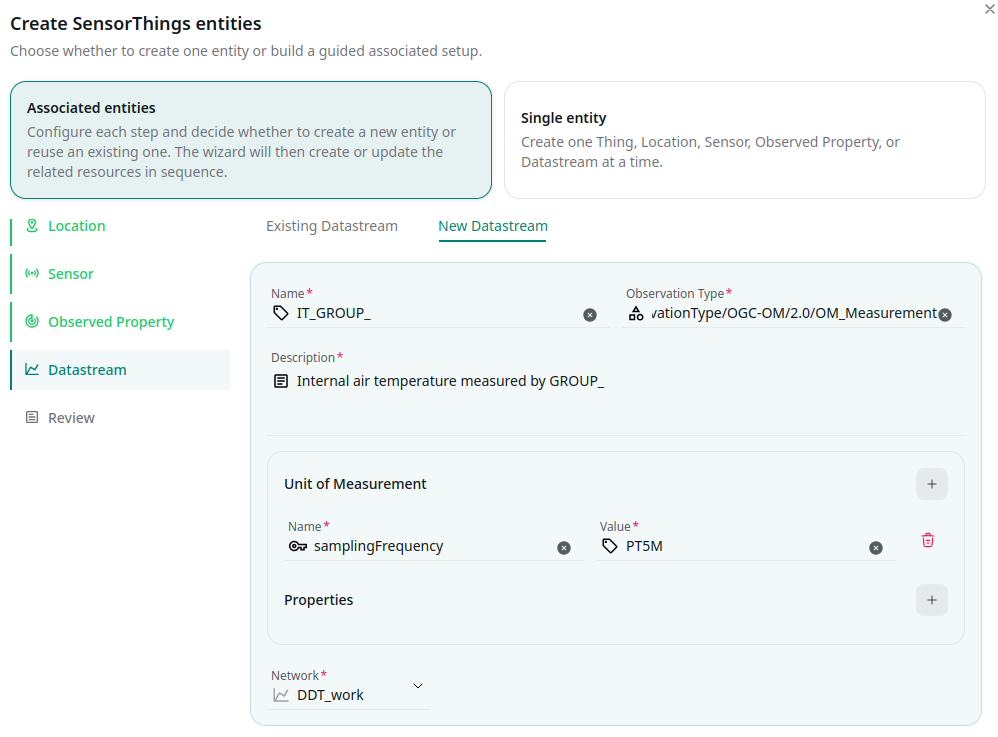
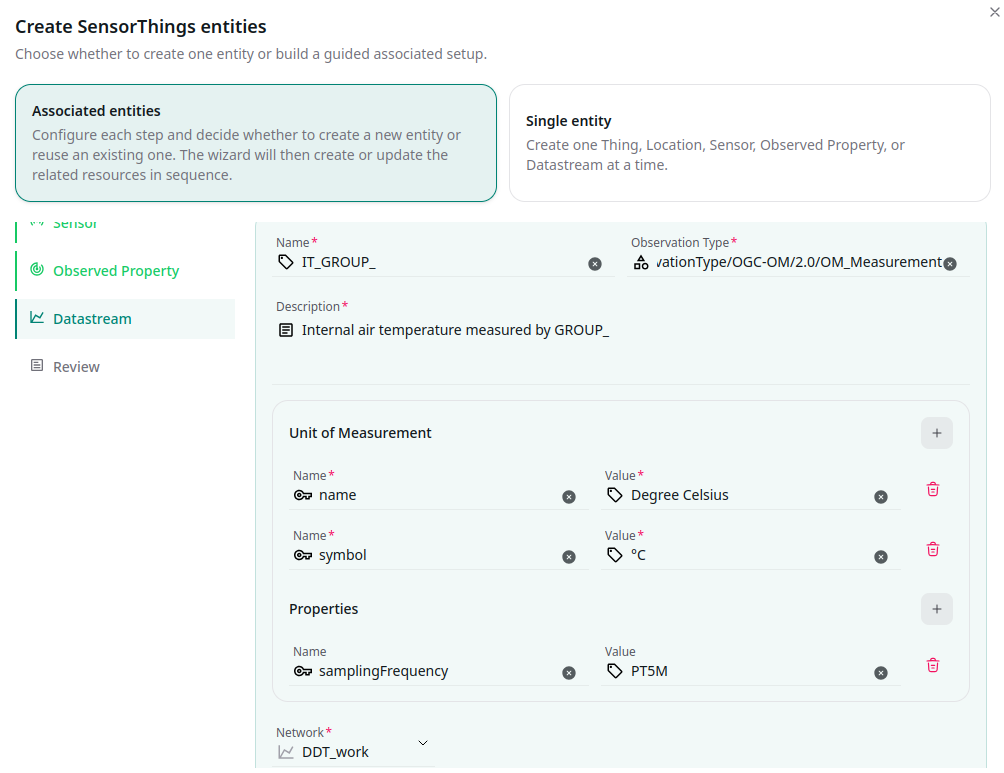
Update UI tutorial to enhance clarity on creating SensorThings entities and improve image assets

diff --git a/web/docs/basic/ui.md b/web/docs/basic/ui.md
@@ -1,119 +1,125 @@
 ---
 title: Exploring the User Interface
-description: Learn how to navigate the istSOS4 user interface and access the main features through the web application.
+description: Learn how to navigate the istSOS4 user interface and create the SensorThings entities required for a sensor configuration.
 icon: lucide/app-window
 ---
 
 # Exploring the User Interface
 
-In this tutorial, we will learn how to use the istSOS4 user interface to create the entities required for our sensor.
+This tutorial explains how to use the istSOS4 user interface to create and connect the entities required for a sensor configuration.
 
-The user interface allows us to interact with the platform visually, without sending API requests manually. We will use it to create and connect the main SensorThings entities: **Thing**, **Location**, **Sensor**, **Observed Property**, and **Datastream**.
+The user interface lets us work with the platform visually, without sending API requests manually. In this workflow, we will create and associate the main SensorThings entities:
+
+- **Thing**
+- **Location**
+- **Sensor**
+- **Observed Property**
+- **Datastream**
+
+By the end of the tutorial, the selected sensor group will be fully configured and ready to receive observations.
 
 ## User Interface Overview
 
 The istSOS4 user interface provides access to the available services and resources through a web-based environment.
 
-Using the interface, we can inspect existing entities, create new ones, and manage their relationships in a guided workflow. This makes it easier to understand how the different parts of the system are connected.
+Using the interface, we can inspect existing entities, create new ones, and manage their relationships through a guided workflow. This helps us understand how the different parts of the SensorThings data model are connected.
 
-In this tutorial, we will access the user interface at:
+For this tutorial, open the user interface at: <https://istsos.org/gui>
 
-<https://istsos.org/gui>
+### :lucide-play: Login
 
-## Login
-
-First, we need to sign in to the user interface using the administrator credentials:
+Sign in to the user interface using the administrator credentials:
 
 - **Username:** `admin`
 - **Password:** `admin`
 
 <div align="center">
-  <img src="../images/ui/login-form.png" alt="Login form" />
+  <img src="../images/ui/login-form.png" alt="Login form" style="border: 1px solid #000;" />
 </div>
 
-After logging in, we are redirected to the main dashboard.
+After logging in, the main dashboard is displayed.
 
 <div align="center">
-  <img src="../images/ui/main-dashboard.png" alt="Main dashboard" />
+  <img src="../images/ui/main-dashboard.png" alt="Main dashboard" style="border: 1px solid #000;" />
 </div>
 
-From the dashboard, we can start creating the entities associated with our sensor.
+From the dashboard, we can start creating the entities associated with our sensor group.
 
-## Create Entities for Our Sensors
+### :lucide-play: Create the Sensor Entities
 
-To create a new set of entities, we start from the map.
+To create a new set of entities, start from the map.
 
 Right-click on the map to open the context menu, then select **Add New**.
 
 <div align="center">
-  <img src="../images/ui/add-new.png" alt="Add new entity from the map menu" />
+  <img src="../images/ui/add-new.png" alt="Add new entity from the map menu" style="border: 1px solid #000;" />
 </div>
 
-The creation wizard opens. For this tutorial, we will use **Associated Entities**, which is already selected by default.
+The creation wizard opens. For this tutorial, keep **Associated Entities** selected.
 
-This option allows us to create or select the entities related to our sensor step by step.
+This option allows us to create or select the entities related to the sensor step by step.
 
-## Step 1: Create the Thing
+### :lucide-play: Create the Thing
 
-The first entity we need to configure is the **Thing**.
+The first entity to configure is the **Thing**.
 
-A Thing represents the physical or logical object associated with the observations. In our case, it represents the group sensor that we are going to configure.
+A Thing represents the physical or logical object associated with the observations. In this tutorial, it represents the sensor group that we are going to configure.
 
-Select **New Thing** and fill in the fields as follows:
+Select **New Thing** and complete the fields as follows:
 
 - **Name:** `GROUP_<number>`
 - **Description:** `Environmental sensor located in the SUPSI building`
 
 The `<number>` must match the number of the selected `SENSOR_<number>`.
 
-For example, if we are working with `SENSOR_3`, the Thing name should be:
+For example, if you are working with `SENSOR_3`, the Thing name should be:
 
 `GROUP_3`
 
 <div align="center">
-  <img src="../images/ui/thing.png" alt="Add new entity from the map menu" />
+  <img src="../images/ui/thing.png" alt="Create a new Thing" style="border: 1px solid #000;" />
 </div>
 
-Once the fields are completed, click **Next**.
+After completing the fields, click **Next**.
 
-## Step 2: Select the Location
+### :lucide-play: Select the Location
 
-Next, we need to associate the Thing with a **Location**.
+Next, associate the Thing with a **Location**.
 
-For this tutorial, we can use an existing Location that represents our room. From the selection list, choose:
+For this tutorial, use the existing Location that represents the room. From the selection list, choose:
 
 `SUPSI`
 
 <div align="center">
-  <img src="../images/ui/location.png" alt="Add new entity from the map menu" />
+  <img src="../images/ui/location.png" alt="Select the Location" style="border: 1px solid #000;" />
 </div>
 
 After selecting the Location, click **Next**.
 
-## Step 3: Create the Sensor
+### :lucide-play: Create the Sensor
 
-Now we configure the **Sensor**.
+Now configure the **Sensor**.
 
-The Sensor describes the device or procedure used to produce the observations. In this case, we are creating the sensor related to the internal temperature measurement.
+The Sensor describes the device or procedure used to produce the observations. In this case, we are creating the sensor associated with the internal temperature measurement.
 
-Select **New Sensor** and fill in the fields as follows:
+Select **New Sensor** and complete the fields as follows:
 
 - **Name:** `IT_SENSOR_GROUP_<number>`
 - **Encoding Type:** `application/json`
 - **Metadata:** `IT`
 - **Description:** `Internal temperature channel of GROUP_<number>`
 
-For example, if we are working with `GROUP_3`, the Sensor name should be:
+For example, if you are working with `GROUP_3`, the Sensor name should be:
 
 `IT_SENSOR_GROUP_3`
 
 <div align="center">
-  <img src="../images/ui/sensor.png" alt="Add new entity from the map menu" />
+  <img src="../images/ui/sensor.png" alt="Create a new Sensor" style="border: 1px solid #000;" />
 </div>
 
-Once the Sensor information is completed, click **Next**.
+After completing the Sensor information, click **Next**.
 
-## Step 4: Select the Observed Property
+### :lucide-play: Select the Observed Property
 
 The **Observed Property** defines what the Sensor measures.
 
@@ -121,83 +127,135 @@ For this tutorial, select the existing Observed Property:
 
 `internal:temperature`
 
-We use this property because the sensor we are configuring measures the internal temperature.
+This property is used because the sensor we are configuring measures internal temperature.
 
 <div align="center">
-  <img src="../images/ui/observed-property.png" alt="Add new entity from the map menu" />
+  <img src="../images/ui/observed-property.png" alt="Select the Observed Property" style="border: 1px solid #000;" />
 </div>
 
 After selecting the Observed Property, click **Next**.
 
-## Step 5: Create the Datastream
+### :lucide-play: Create the Datastream
 
 The next step is to create the **Datastream**.
 
-A Datastream connects the **Thing**, **Sensor**, and **Observed Property**. It describes the stream of observations that will be collected for a specific measured property.
+A Datastream connects the **Thing**, **Sensor**, and **Observed Property**. It describes the stream of observations collected for a specific measured property.
 
-Select **New Datastream** and fill in the fields as follows:
+Select **New Datastream** and complete the fields as follows:
 
 - **Name:** `IT_GROUP_<number>`
 - **Observation Type:** `http://www.opengis.net/def/observationType/OGC-OM/2.0/OM_Measurement`
 - **Description:** `Internal air temperature measured by GROUP_<number>`
 - **Unit of Measurement:**
-    - **Name:** `samplingFrequency`
-    - **Value:** `PT5M`
+    - **Name:** `name`
+    - **Value:** `Degree Celsius`
+    - **Name:** `symbol`
+    - **Value:** `°C`
+- **Properties:**
+  - **Name:** `samplingFrequency`
+  - **Value:** `PT5M`
 - **Network:** `DDT_network`
 
-For example, if we are working with `GROUP_3`, the Datastream name should be:
+For example, if you are working with `GROUP_3`, the Datastream name should be:
 
 `IT_GROUP_3`
 
 <div align="center">
-  <img src="../images/ui/datastream.png" alt="Add new entity from the map menu" />
+  <img src="../images/ui/datastream.png" alt="Create a new Datastream" style="border: 1px solid #000;" />
 </div>
 
-Once all the Datastream fields are completed, click **Next**.
+After completing all Datastream fields, click **Next**.
 
-## Step 6: Review and Finish
+### :lucide-play: Review and Finish
 
-In the **Review** section, we can check all the entities that will be created or associated.
+In the **Review** section, check the entities that will be created or associated.
 
-Before finishing, verify that the configured entities are correct:
+Before completing the process, verify that:
 
 - the Thing uses the correct group number;
 - the Location is set to `SUPSI`;
 - the Sensor refers to the internal temperature channel;
-- the Observed Property is `internal:temperature`;
+- the Observed Property is set to `internal:temperature`;
 - the Datastream is connected to `DDT_network`.
 
-Finally, enter a **Commit Message** describing the operation, for example:
+Then enter a **Commit Message** that clearly describes the operation, for example:
 
 `IT for GROUP_<number>`
 
 <div align="center">
-  <img src="../images/ui/review.png" alt="Add new entity from the map menu" />
+  <img src="../images/ui/review.png" alt="Review the entity configuration" style="border: 1px solid #000;" />
 </div>
 
 After reviewing the configuration and entering the commit message, click **Finish** to complete the creation process.
 
+### :lucide-play: Repeat the Process for the Other Observed Properties
 
-## Step 7: Repeat the Process for the Other Observed Properties
+After creating the Datastream for internal temperature, repeat the same workflow for the remaining observed properties.
 
-After creating the Datastream for the internal temperature, we need to repeat the same workflow for the remaining observed properties.
+The remaining observed properties are listed below.
 
-For each property, we create or select the corresponding **Sensor**, choose the appropriate **Observed Property**, and create a new **Datastream** connected to the same group.
-
-The remaining observed properties are:
+For each Observed Property, create a dedicated **Sensor** and a dedicated **Datastream**.  
+The `unitOfMeasurement` value must be entered in the **Datastream**, because it is a Datastream key that describes the unit used by the observations in that specific data stream.
 
 - `internal:air:humidity`
+
+  ```json
+  "unitOfMeasurement": {
+    "name": "Percent",
+    "symbol": "%"
+  }
+  ```
+
 - `internal:pressure`
+
+  ```json
+  "unitOfMeasurement": {
+    "name": "Hectopascal",
+    "symbol": "hPa"
+  }
+  ```
+
 - `internal:lux`
+
+  ```json
+  "unitOfMeasurement": {
+    "name": "Lux",
+    "symbol": "lx"
+  }
+  ```
+
 - `external:wall:temperature`
+
+  ```json
+  "unitOfMeasurement": {
+    "name": "Degree Celsius",
+    "symbol": "°C"
+  }
+  ```
+
 - `external:water:temperature`
+
+  ```json
+  "unitOfMeasurement": {
+    "name": "Degree Celsius",
+    "symbol": "°C"
+  }
+  ```
+
 - `sensor:battery`
 
-For each of these properties, we should adapt the Sensor and Datastream names according to the measurement type, while keeping the same group number.
+  ```json
+  "unitOfMeasurement": {
+    "name": "Battery level fraction",
+    "symbol": "1"
+  }
+  ```
 
-For example, if we are working with `GROUP_3`, each Datastream should refer to `GROUP_3` and describe the specific measurement it represents.
+For each property, adapt the Sensor and Datastream names according to the measurement type while keeping the same group number.
 
-Before clicking **Finish**, always check the **Review** section to make sure that:
+For example, if you are working with `GROUP_3`, every Datastream should refer to `GROUP_3` and clearly describe the specific measurement it represents.
+
+Before clicking **Finish**, always check the **Review** section and make sure that:
 
 - the correct Observed Property has been selected;
 - the Sensor name matches the selected property;
@@ -205,4 +263,4 @@ Before clicking **Finish**, always check the **Review** section to make sure tha
 - the Datastream is associated with the correct Thing and Network;
 - the Commit Message describes the operation clearly.
 
-Once all the observed properties have been configured, our group sensor will be fully described in the system and ready to receive observations.
+After all observed properties have been configured, the sensor group is fully described in the system and ready to receive observations.
